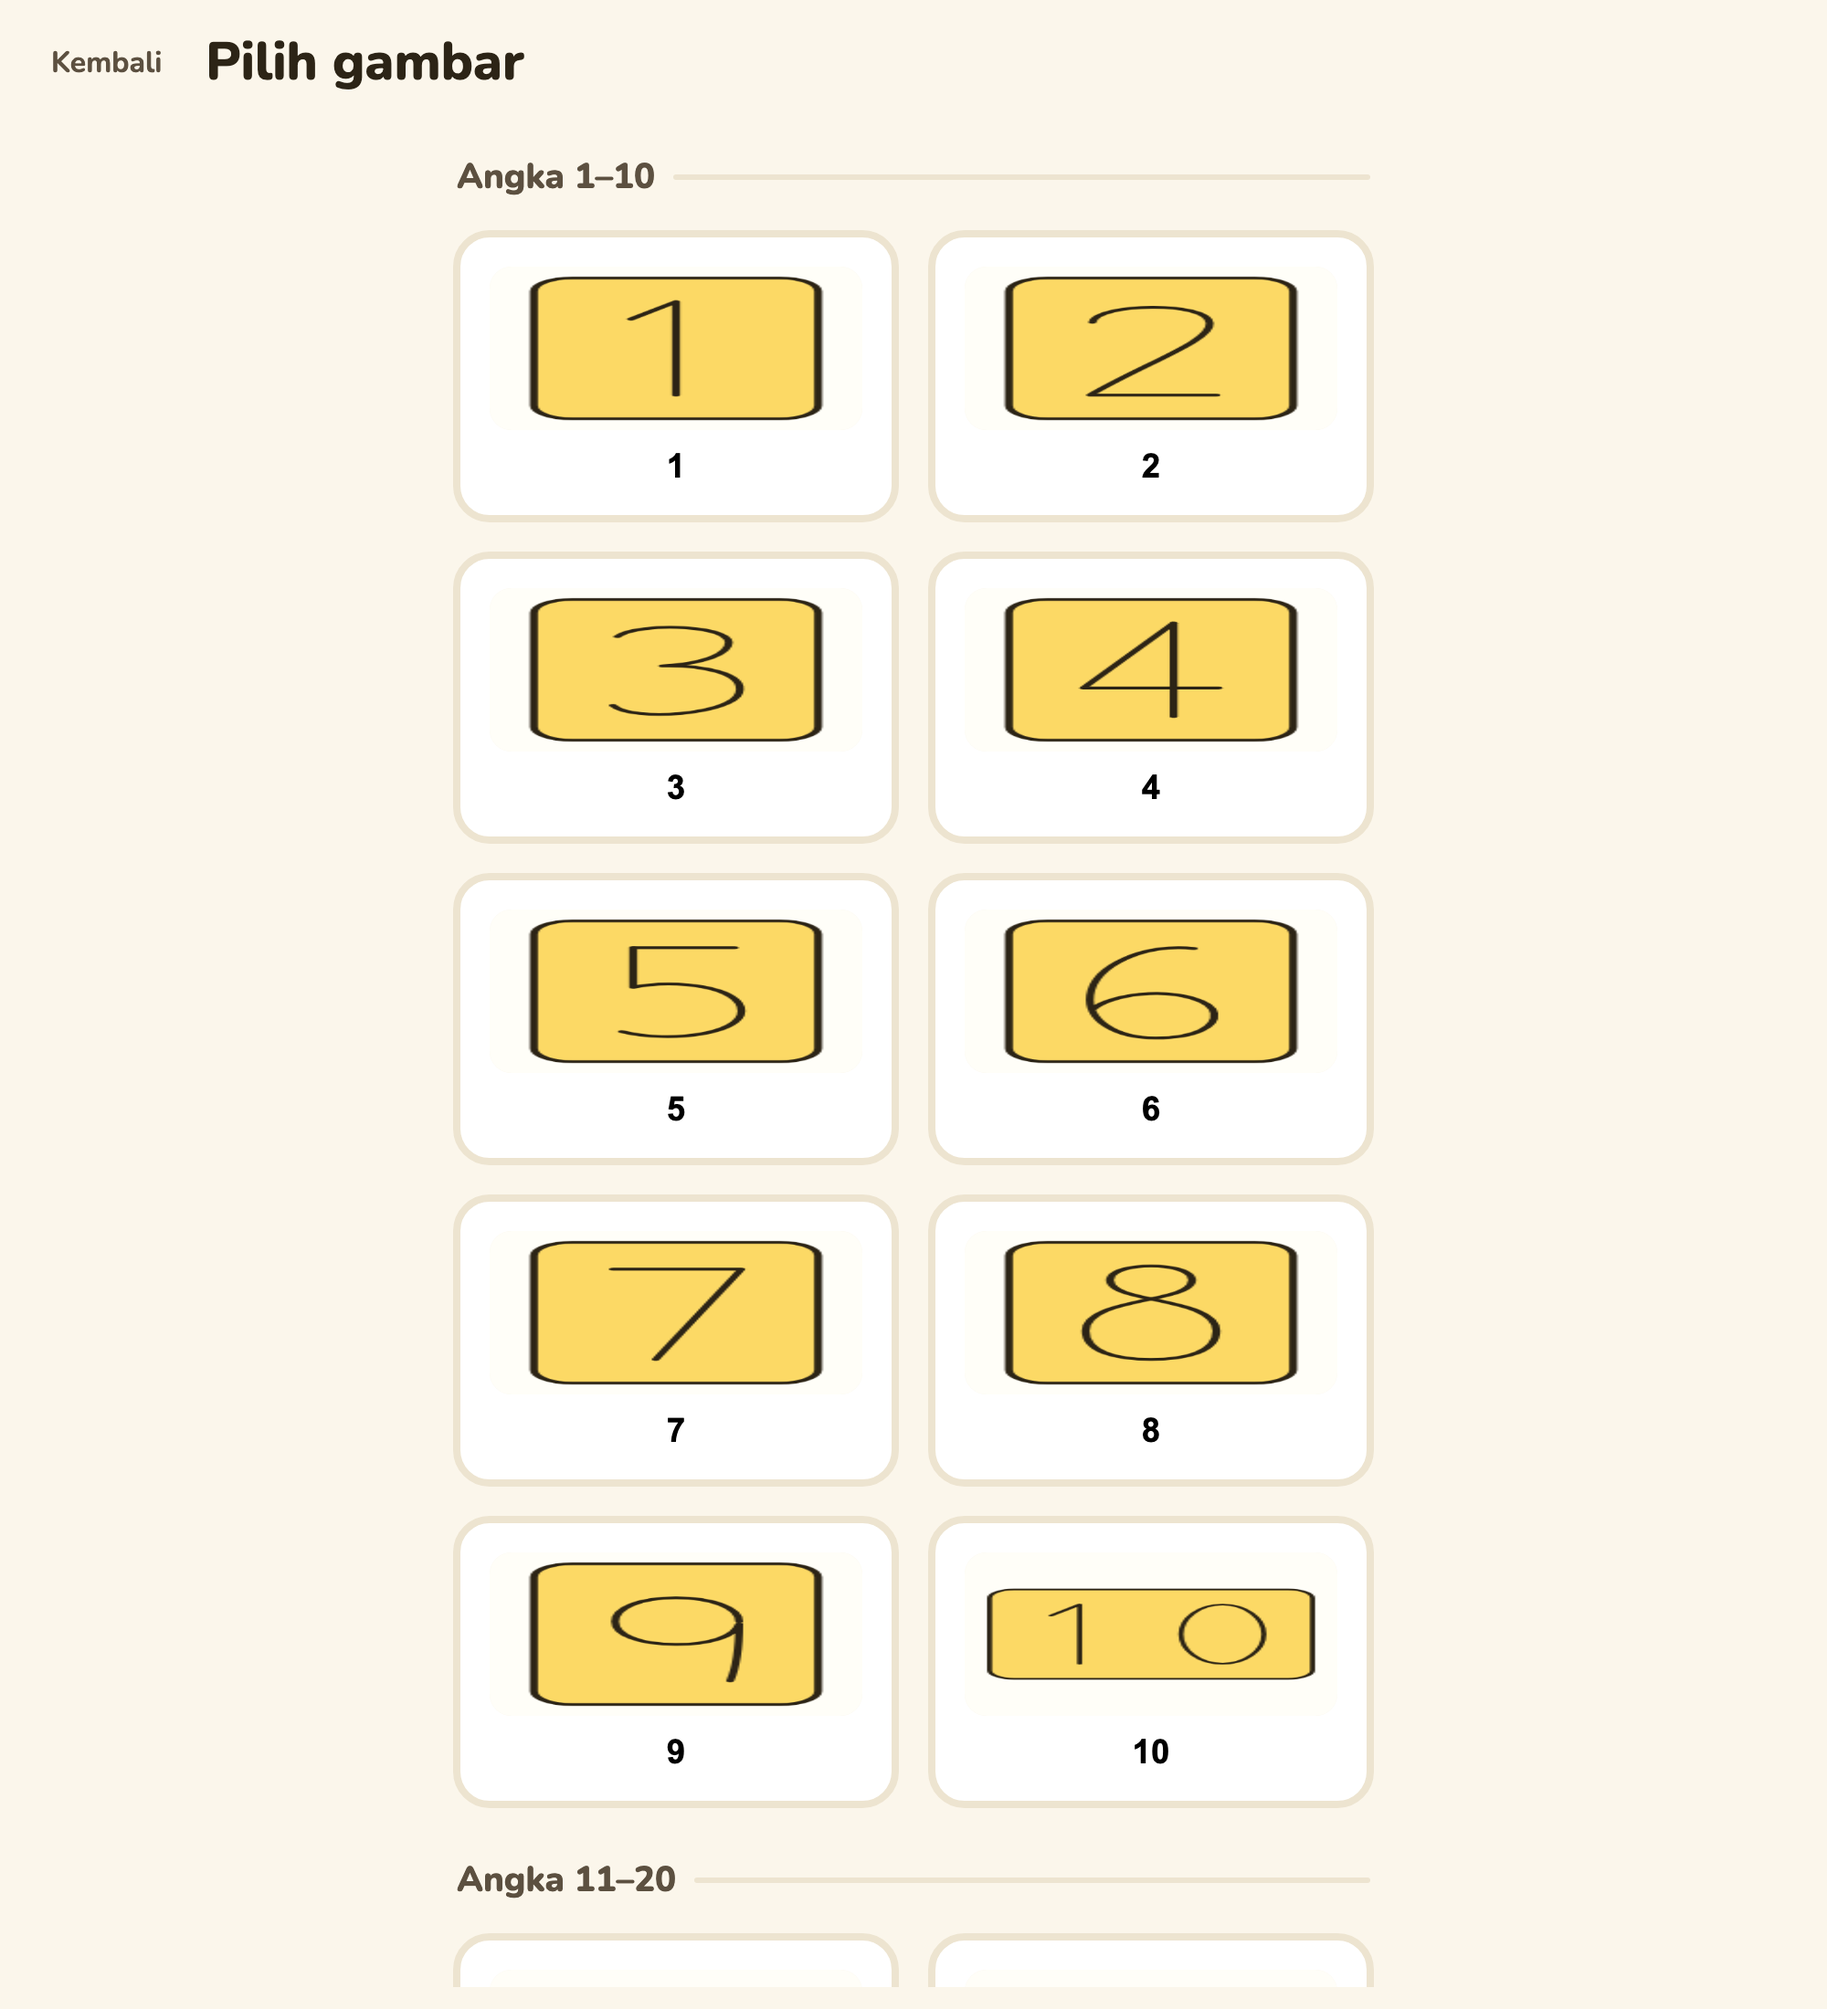
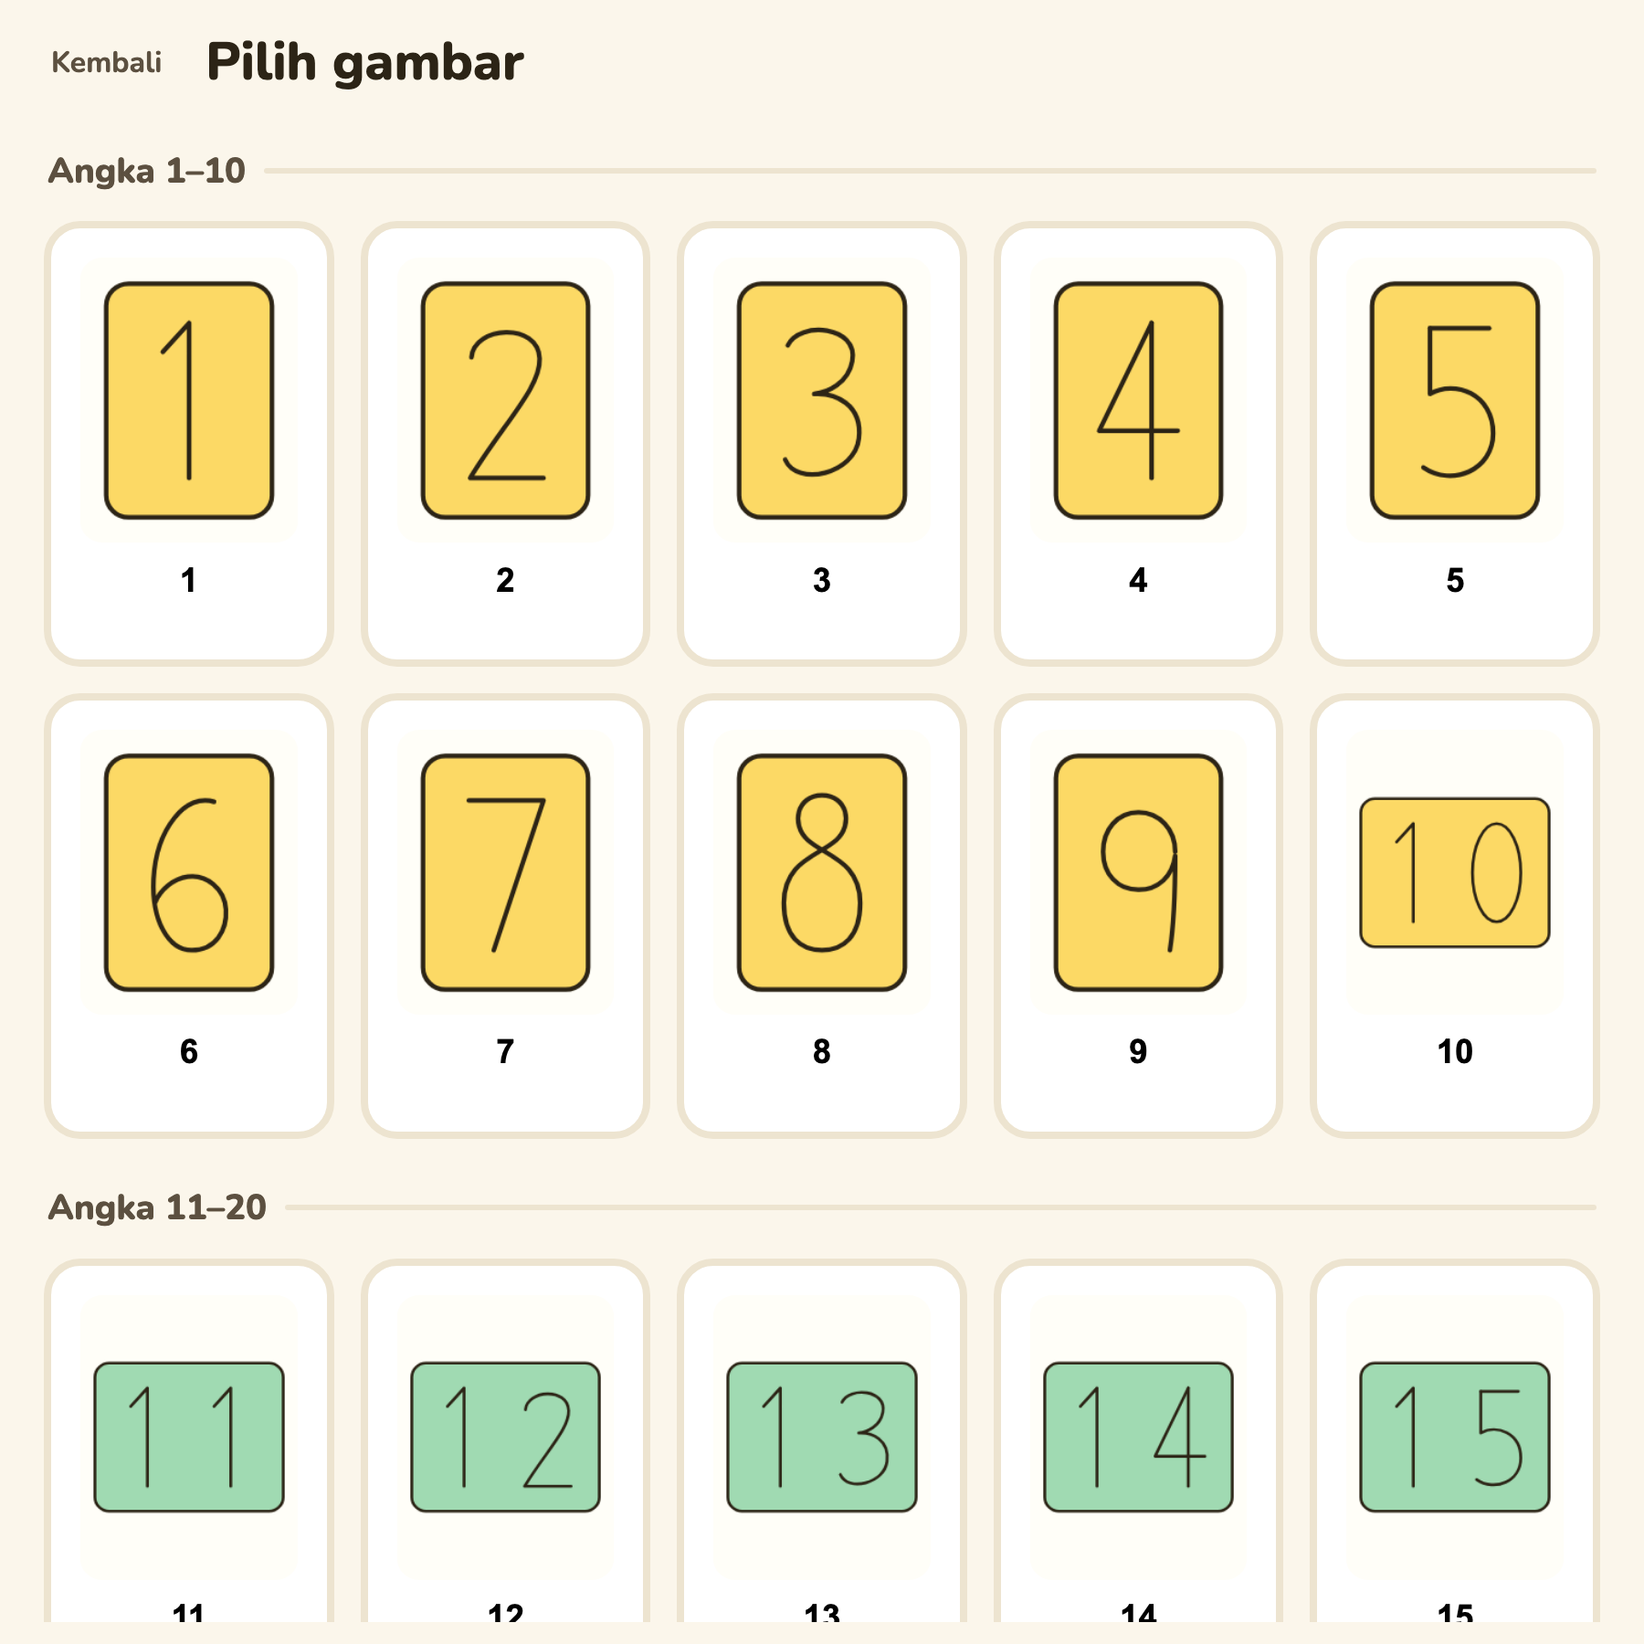
Stop the card previews being squashed
Every preview on the picking screen was drawn to the wrong shape, worst on the
wide scene cards where the people came out flattened.

Three things stacked up:
- The canvas was set to width:100% height:100%, which stretches the bitmap to
  whatever shape the box happens to be. It now takes its height from the box
  and its width from the drawing, so a figure keeps its proportions.
- The box asked for its height with aspect-ratio. That does not feed into the
  height of a grid row, so the row collapsed to the card's min-height and the
  drawing was squeezed into what was left. The box now has a fixed height, and
  the card a min-height that fits it — a <button> will not grow to its flex
  contents, so the row has to be told.
- Two media queries pinned the grid to two columns and 520px, written when
  there were four cards. With 111 they wasted most of the screen: an iPad in
  portrait now fits four columns, a phone two.

Also: a scene card spans two columns rather than the whole row, which suits
the shape of the drawing instead of stranding it in an empty band; and the
preview background matches the paper the drawing is on, so the space either
side of a figure is invisible.

Checked at desktop, iPad portrait and phone widths: proportions match the
bitmaps exactly, no label overflows any card, no sideways scroll. All 645
lines of all 111 cards still trace with no failures and no console errors.

diff --git a/styles.css b/styles.css
@@ -208,15 +208,13 @@ h1 {
 
 @media (max-width: 700px), (orientation: portrait) {
   .char-grid {
-    grid-template-columns: repeat(2, minmax(120px, 1fr));
-    max-width: 520px;
-    overflow-y: auto;
+    grid-template-columns: repeat(auto-fill, minmax(150px, 1fr));
+    max-width: 100%;
   }
 }
 @media (max-width: 420px) {
   .char-grid {
-    grid-template-columns: 1fr;
-    max-width: 300px;
+    grid-template-columns: repeat(2, minmax(0, 1fr));
   }
 }
 
@@ -231,9 +229,14 @@ h1 {
   gap: 0.6rem;
   cursor: pointer;
   transition: border-color 0.15s, transform 0.1s;
-  min-height: 160px;
+  /* A grid row takes its height from this, not from the card's contents: a
+     <button> does not grow to fit flex children. Sized for the preview, the
+     gap, and a label that may run to two lines. */
+  min-height: 244px;
 }
-.char-card.wide { grid-column: 1 / -1; }
+/* A scene is drawn wide: two columns suits its shape. Spanning the whole row
+   left the drawing stranded in the middle of a mostly empty card. */
+.char-card.wide { grid-column: span 2; }
 .char-card:active { transform: scale(0.97); }
 .char-card:focus-visible,
 .char-card.selected {
@@ -241,22 +244,33 @@ h1 {
   outline: none;
   box-shadow: 0 0 0 4px var(--accent-soft);
 }
+/* A fixed height, not an aspect ratio: an aspect ratio does not feed into the
+   height of a grid row, so the card either squashed the box or overflowed it.
+   The drawing inside keeps its own proportions via object-fit. */
 .char-preview {
   width: 100%;
-  aspect-ratio: 4/5;
-  max-height: 220px;
-  background: var(--paper);
+  height: 156px;
+  flex: 0 0 auto;
+  background: #FFFEF8;
   border-radius: 12px;
   overflow: hidden;
 }
+/* Height from the box, width from the drawing: that is what keeps a figure
+   its own shape. Forcing both made every preview squashed. */
 .char-preview canvas {
-  width: 100%;
   height: 100%;
+  width: auto;
+  max-width: 100%;
+  object-fit: contain;
   display: block;
+  margin: 0 auto;
 }
+
+.char-card.wide .char-preview { height: 176px; }
 .char-card span {
   font-weight: 800;
   font-size: 1.15rem;
+  line-height: 1.2;
 }
 
 /* —— Play (trace + color) —— */

diff --git a/index.html b/index.html
@@ -8,13 +8,13 @@
   <meta name="apple-mobile-web-app-status-bar-style" content="default" />
   <meta name="apple-mobile-web-app-title" content="Gambar Orang" />
   <meta name="mobile-web-app-capable" content="yes" />
-  <link rel="manifest" href="manifest.webmanifest?v=3" />
+  <link rel="manifest" href="manifest.webmanifest?v=7" />
   <meta name="description" content="Gambar orang langkah demi langkah — untuk anak TK, iPad & stylus." />
   <title>Gambar Orang — Langkah demi langkah</title>
   <link rel="preconnect" href="https://fonts.googleapis.com" />
   <link rel="preconnect" href="https://fonts.gstatic.com" crossorigin />
   <link href="https://fonts.googleapis.com/css2?family=Nunito:wght@600;700;800&display=swap" rel="stylesheet" />
-  <link rel="stylesheet" href="styles.css?v=3" />
+  <link rel="stylesheet" href="styles.css?v=7" />
 </head>
 <body>
   <button type="button" class="lang-toggle" id="lang-toggle" aria-label="Language">EN</button>
@@ -70,7 +70,7 @@
     </div>
   </section>
 
-  <script src="characters.js?v=3"></script>
-  <script src="game.js?v=3"></script>
+  <script src="characters.js?v=7"></script>
+  <script src="game.js?v=7"></script>
 </body>
 </html>
